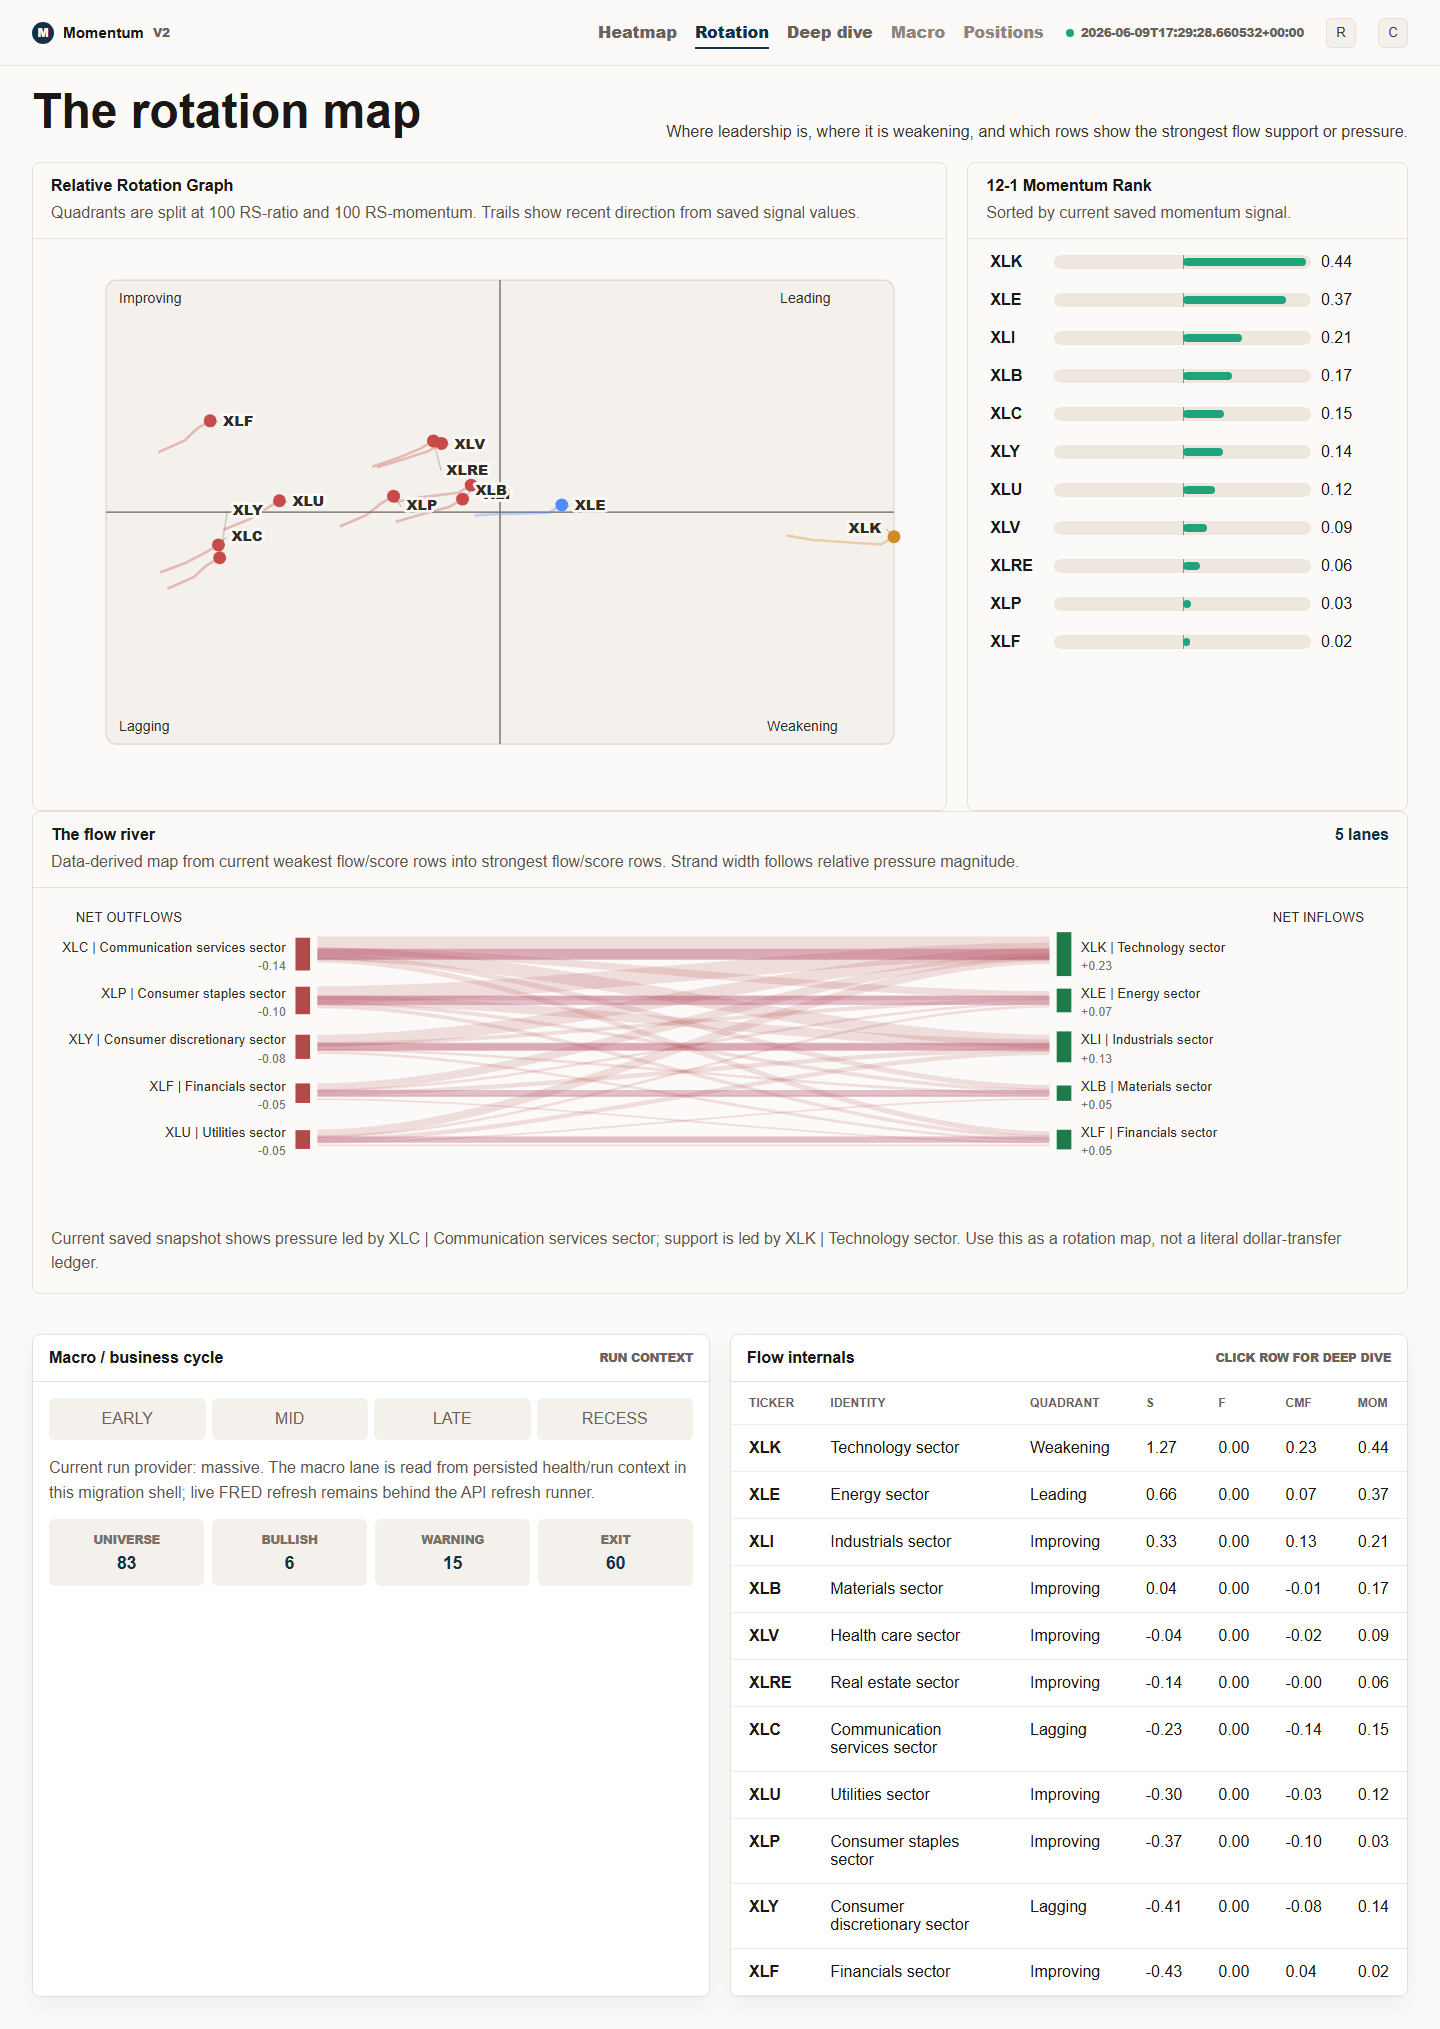
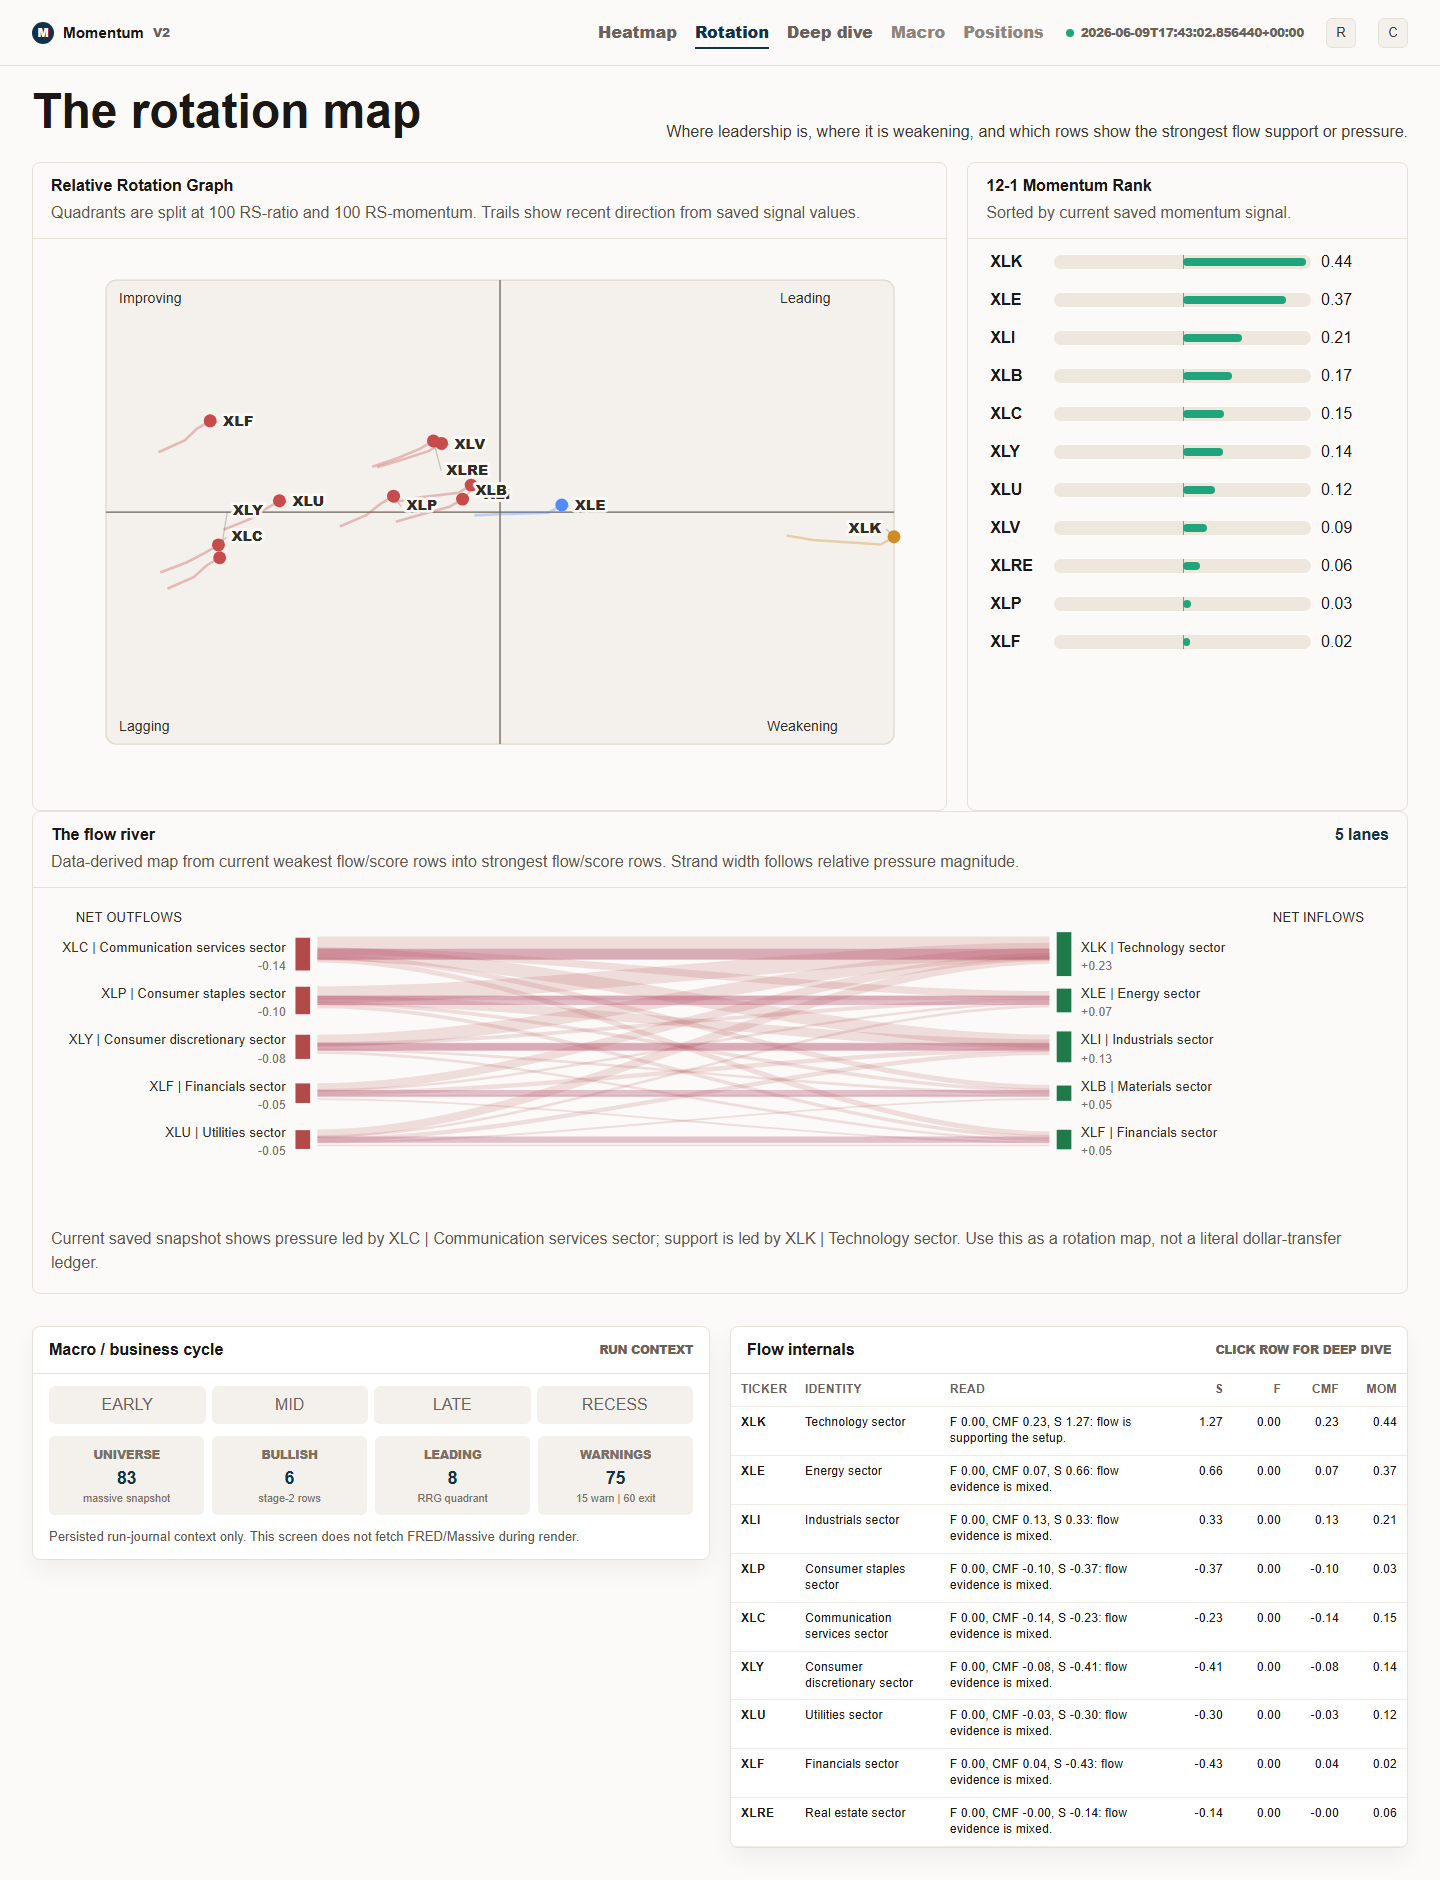
Improve B-170 rotation parity evidence

diff --git a/web/app/globals.css b/web/app/globals.css
@@ -703,18 +703,21 @@ main {
 }
 
 .c-flow-table {
-  margin-top: 20px;
+  margin-top: 16px;
 }
 
 .c-lower-grid {
   display: grid;
   grid-template-columns: minmax(0, 1fr) minmax(0, 1fr);
   gap: 20px;
-  margin-top: 20px;
+  align-items: start;
+  margin-top: 16px;
 }
 
 .c-flow-table table {
   min-width: 0;
+  table-layout: fixed;
+  width: 100%;
 }
 
 .c-flow-table th,
@@ -727,16 +730,51 @@ main {
   color: #6a625a;
 }
 
+.c-lower-grid .c-flow-table th,
+.c-lower-grid .c-flow-table td {
+  padding: 8px 10px;
+  font-size: 0.78rem;
+  line-height: 1.28;
+}
+
+.c-flow-read {
+  display: -webkit-box;
+  overflow: hidden;
+  -webkit-box-orient: vertical;
+  -webkit-line-clamp: 2;
+}
+
+.c-lower-grid .c-flow-table th:nth-child(1),
+.c-lower-grid .c-flow-table td:nth-child(1) {
+  width: 64px;
+}
+
+.c-lower-grid .c-flow-table th:nth-child(2),
+.c-lower-grid .c-flow-table td:nth-child(2) {
+  width: 24%;
+}
+
+.c-lower-grid .c-flow-table th:nth-child(3),
+.c-lower-grid .c-flow-table td:nth-child(3) {
+  width: 39%;
+}
+
+.c-lower-grid .c-flow-table th:nth-child(n+4),
+.c-lower-grid .c-flow-table td:nth-child(n+4) {
+  width: 58px;
+  text-align: right;
+}
+
 .c-cycle-tabs {
   display: grid;
   grid-template-columns: repeat(4, minmax(0, 1fr));
   gap: 6px;
-  padding: 16px;
+  padding: 12px 16px;
 }
 
 .c-cycle-tabs span,
 .c-macro-tiles div {
-  padding: 12px 10px;
+  padding: 10px 8px;
   color: #6a625a;
   text-align: center;
   background: #f4f1ec;
@@ -750,16 +788,17 @@ main {
 
 .c-macro-panel p {
   margin: 0;
-  padding: 0 16px 14px;
+  padding: 0 16px 12px;
   color: #5d554d;
-  line-height: 1.55;
+  font-size: 0.82rem;
+  line-height: 1.45;
 }
 
 .c-macro-tiles {
   display: grid;
   grid-template-columns: repeat(4, minmax(0, 1fr));
   gap: 8px;
-  padding: 0 16px 16px;
+  padding: 0 16px 12px;
 }
 
 .c-macro-tiles span {
@@ -775,6 +814,14 @@ main {
   margin-top: 5px;
   color: #12324a;
   font-size: 1.1rem;
+}
+
+.c-macro-tiles small {
+  display: block;
+  margin-top: 3px;
+  color: #7a7066;
+  font-size: 0.68rem;
+  line-height: 1.25;
 }
 
 .c-empty {

diff --git a/web/app/dashboard-screens-client.tsx b/web/app/dashboard-screens-client.tsx
@@ -124,6 +124,23 @@ function fieldNarrative(row: SnapshotRow): string {
   return `${row.display_label}: S ${fmt(row.s_score)}, F ${fmt(row.f_score)}, ${momentum}, ${flow}, RRG ${row.quadrant}.`;
 }
 
+function rowPressure(row: SnapshotRow): number {
+  return row.f_score + (row.cmf21 ?? 0) + row.s_score * 0.35;
+}
+
+function flowNarrative(row: SnapshotRow): string {
+  const cmf = row.cmf21 === null ? "CMF is unavailable" : `CMF ${fmt(row.cmf21, 2)}`;
+  const flow = `F ${fmt(row.f_score, 2)}`;
+  const score = `S ${fmt(row.s_score, 2)}`;
+  if (rowPressure(row) > 0.35) {
+    return `${flow}, ${cmf}, ${score}: flow is supporting the setup.`;
+  }
+  if (rowPressure(row) < -0.35) {
+    return `${flow}, ${cmf}, ${score}: flow is pressuring the setup.`;
+  }
+  return `${flow}, ${cmf}, ${score}: flow evidence is mixed.`;
+}
+
 function SnapshotCard({
   row,
   selected,
@@ -1358,6 +1375,12 @@ function CRotationScreen({
 }) {
   const sectors = snapshot.screens.rotation?.sectors ?? [];
   const rows = sectors.length ? sectors : snapshot.rows;
+  const sortedFlowRows = [...rows].sort((a, b) => Math.abs(rowPressure(b)) - Math.abs(rowPressure(a))).slice(0, 9);
+  const cyclePhase = String(snapshot.run?.metadata?.cycle_phase || "").toUpperCase();
+  const warningCount = snapshot.summary.state_counts.WARNING ?? 0;
+  const exitCount = snapshot.summary.state_counts.EXIT ?? 0;
+  const bullishCount = snapshot.summary.state_counts.STAGE_2_BULLISH ?? 0;
+  const leadingCount = snapshot.summary.quadrant_counts.Leading ?? 0;
   return (
     <section className="c-screen" aria-label="Display C rotation and flow">
       <header className="c-rotation-head">
@@ -1380,32 +1403,32 @@ function CRotationScreen({
           <div className="c-sec-head"><strong>Macro / business cycle</strong><span>run context</span></div>
           <div className="c-cycle-tabs">
             {["EARLY", "MID", "LATE", "RECESS"].map((phase) => (
-              <span key={phase} className={String(snapshot.run?.metadata?.cycle_phase || "").toUpperCase() === phase ? "selected" : ""}>{phase}</span>
+              <span key={phase} className={cyclePhase === phase ? "selected" : ""}>{phase}</span>
             ))}
           </div>
-          <p>Current run provider: {snapshot.run?.provider || "unknown"}. The macro lane is read from persisted health/run context in this migration shell; live FRED refresh remains behind the API refresh runner.</p>
           <div className="c-macro-tiles">
-            <div><span>Universe</span><strong>{snapshot.summary.universe_count}</strong></div>
-            <div><span>Bullish</span><strong>{snapshot.summary.state_counts.STAGE_2_BULLISH ?? 0}</strong></div>
-            <div><span>Warning</span><strong>{snapshot.summary.state_counts.WARNING ?? 0}</strong></div>
-            <div><span>Exit</span><strong>{snapshot.summary.state_counts.EXIT ?? 0}</strong></div>
+            <div><span>Universe</span><strong>{snapshot.summary.universe_count}</strong><small>{snapshot.run?.provider || "provider"} snapshot</small></div>
+            <div><span>Bullish</span><strong>{bullishCount}</strong><small>stage-2 rows</small></div>
+            <div><span>Leading</span><strong>{leadingCount}</strong><small>RRG quadrant</small></div>
+            <div><span>Warnings</span><strong>{warningCount + exitCount}</strong><small>{warningCount} warn | {exitCount} exit</small></div>
           </div>
+          <p>Persisted run-journal context only. This screen does not fetch FRED/Massive during render.</p>
         </div>
         <div className="c-flow-table">
           <div className="c-sec-head"><strong>Flow internals</strong><span>click row for deep dive</span></div>
           <table>
             <thead>
-              <tr><th>Ticker</th><th>Identity</th><th>Quadrant</th><th>S</th><th>F</th><th>CMF</th><th>Mom</th></tr>
+              <tr><th>Ticker</th><th>Identity</th><th>Read</th><th>S</th><th>F</th><th>CMF</th><th>Mom</th></tr>
             </thead>
             <tbody>
-              {rows.slice(0, 12).map((row) => (
+              {sortedFlowRows.map((row) => (
                 <tr key={row.ticker} className={row.ticker === selectedTicker ? "selected-row" : ""} onClick={() => {
                   onSelectTicker(row.ticker);
                   setActiveScreen("deepdive");
                 }}>
                   <td><strong>{row.ticker}</strong></td>
                   <td>{row.identity}</td>
-                  <td>{row.quadrant}</td>
+                  <td><span className="c-flow-read">{flowNarrative(row)}</span></td>
                   <td>{fmt(row.s_score)}</td>
                   <td>{fmt(row.f_score)}</td>
                   <td>{fmt(row.cmf21, 2)}</td>

diff --git a/docs/BACKLOG.md b/docs/BACKLOG.md
@@ -16,7 +16,7 @@ Status legend:
 **Behavior:** adds a pure JSON status contract for dashboard health lanes and an optional FastAPI app factory with `/api/v1/health`, `/api/v1/status`, `GET /api/v1/data-health`, `GET /api/v1/provider-health`, `GET /api/v1/dashboard-snapshot`, `GET /api/v1/backtest-artifacts`, `GET /api/v1/ticker-chart`, `POST /api/v1/portfolio/analyze`, `GET /api/v1/portfolios`, `POST /api/v1/portfolios`, `DELETE /api/v1/portfolios?name=...`, `POST /api/v1/refresh`, `GET /api/v1/refresh/{job_id}`, and `GET /api/v1/refresh/{job_id}/events`. The default API status provider reads persisted state-machine storage, run-journal metadata, and Massive provider-snapshot coverage without importing Streamlit, fetching providers, recomputing indicators, or mutating live scoring state. The data/provider-health API additionally exposes provider-flow readiness and provider-flow cache coverage from persisted/configured state only, so future clients can show provider health without live provider calls. The backtest artifact API reports existing manual report/equity/state artifact presence, timestamps, hashes, metadata verification state, report text, and equity rows without running backtests, calibration, provider fetches, or research jobs; the Next shell consumes it in a collapsed Backtest Lab panel with artifact statuses, report preview, and an API-row equity preview. The ticker chart API reads cached OHLCV only, computes weekly close, 30-week moving average, CMF(21), OBV, OBV slope, benchmark-relative RS ratio, 12-week momentum, and 52-week momentum rows, and the React C2 deep dive fetches the selected ticker chart asynchronously while falling back to saved gate evidence if cached chart data is unavailable. The portfolio analysis API accepts a single ticker, JSON holdings, CSV text, or base64 CSV/XLSX content and maps holdings onto the latest persisted dashboard snapshot without provider fetches, scoring recompute, broker calls, portfolio persistence, or state writes; saved-portfolio routes explicitly reuse `data/saved_inputs.json` for named portfolio list/save/delete. The Next shell now includes an API-backed portfolio analyzer for ticker, pasted CSV, and uploaded CSV/XLS/XLSX inputs, with exposure summaries, missing ticker diagnostics, click-through rows into the dashboard focus, and explicit save/load/delete controls for named portfolios. Refresh jobs and progress events are persisted in local SQLite so a future React/Next.js frontend can create refresh requests and reconnect to progress state while the current dashboard keeps running. The refresh endpoint is queue-only by default; when a caller explicitly sends `run_now: true`, `src/api_refresh_runner.py` executes the existing headless Massive/FRED/dashboard refresh sequence and records phase progress. The first Next.js shell under `web/` consumes `/api/v1/health`, `/api/v1/data-health`, and `/api/v1/dashboard-snapshot`, renders persisted/provider health lanes plus A/B/C overview, deep-dive, and rotation sections from the latest run-journal snapshot, keeps provider calls behind the API, and now has native React screen selection, sortable overview lists, ticker focus selection, click-through cards/rows, rotation quadrant filtering, API-fed SVG primitives for pillar-stack rows, ticker waterfall, RRG, momentum bars, a relative-strength/momentum deep-dive panel, and a data-derived flow river, a light `?presentation=c` Display C candidate layout, plus a repeatable Playwright screenshot QA harness against the C1/C2/C3 handoff PNGs.
 **Activation:** install `requirements.txt`, build the Next app with `npm --prefix web run build`, then optionally install the candidate `sector-api.service` and `sector-next.service` templates; no Pi service switch is made by this ticket.
 **Migration plan:** keep Streamlit as the production frontend until API-backed React screens reach parity. The candidate API/Next services and Cloudflare route plan are documented for a separate `next-sentimentdashboard.ahaddashboards.uk` hostname, while `sentimentdashboard.ahaddashboards.uk` stays routed to Streamlit. Streamlit route remains production until feature parity, data parity, visual parity, and rollback gates are accepted.
-**Evidence:** Next handoff browser QA screenshots and similarity report are stored in `docs/browser-qa/next-handoff/latest`; the latest `?presentation=c` run has required text/nonblank passes for C1/C2/C3 with current similarity 0.7763 for overview, 0.8386 for deep dive, and 0.8496 for rotation. The overview now uses cumulative stacked pillar bars and a data-backed saved-portfolio positions rail instead of handoff fixture holdings, with the QA helper preserving the current real row universe while trimming duplicate transport payload sections. The deep dive now has a C2-style waterfall, weighted pillar-detail cards with evidence tags, run-journal-backed gate/evidence panels, and collapsed advanced evidence so the first-pass visual structure remains closer to the handoff while retaining extra real-data panels on demand.
+**Evidence:** Next handoff browser QA screenshots and similarity report are stored in `docs/browser-qa/next-handoff/latest`; the latest `?presentation=c` run has required text/nonblank passes for C1/C2/C3 with current similarity 0.7763 for overview, 0.8386 for deep dive, and 0.8524 for rotation. The overview now uses cumulative stacked pillar bars and a data-backed saved-portfolio positions rail instead of handoff fixture holdings, with the QA helper preserving the current real row universe while trimming duplicate transport payload sections. The deep dive now has a C2-style waterfall, weighted pillar-detail cards with evidence tags, run-journal-backed gate/evidence panels, and collapsed advanced evidence so the first-pass visual structure remains closer to the handoff while retaining extra real-data panels on demand. The rotation screen now keeps the flow-river/lower-detail composition closer to the handoff height while using live snapshot rows for flow-pressure sorting and row-specific flow explanations.
 **Residual risk:** this is a foundation slice only. The API runner can execute the real headless refresh when explicitly requested, and the initial Next shell now has lockfile/audit/build evidence plus journal-backed A/B/C screen foundations, native React interactions, API-fed chart primitives, async cached ticker price/flow/relative-strength/momentum chart data, screenshot QA evidence, read-only portfolio analysis API/UI coverage, explicit saved-portfolio API/UI persistence coverage, read-only backtest artifact API/UI coverage, and candidate service/route templates. The candidate services are not yet installed as the live production route, and there is not yet handoff-pixel A/B/C React parity or an accepted Streamlit retirement decision.
 
 ### B-001 · HTML render fix for action cards (BLUF) - IMPLEMENTED

diff --git a/docs/superpowers/plans/2026-06-08-b170-production-dashboard-migration.md b/docs/superpowers/plans/2026-06-08-b170-production-dashboard-migration.md
@@ -79,7 +79,7 @@ Start by extracting pure response contracts and optional API boundaries. Do not 
 - [x] Add Playwright screenshot QA against the design handoff PNG/HTML references.
   - [x] `scripts/capture_next_handoff_qa.py` captures Overview, Deep Dive, and Rotation against C1/C2/C3 references.
   - [x] `scripts/serve_next_qa_api.py` provides a QA-only read-only API fallback when FastAPI is not installed locally.
-  - [x] Latest evidence targets `http://127.0.0.1:3100/?presentation=c`; required text/nonblank checks pass for C1/C2/C3 with current similarity 0.7763 overview, 0.8386 deep dive, and 0.8496 rotation while remaining below a pixel-parity release gate.
+  - [x] Latest evidence targets `http://127.0.0.1:3100/?presentation=c`; required text/nonblank checks pass for C1/C2/C3 with current similarity 0.7763 overview, 0.8386 deep dive, and 0.8524 rotation while remaining below a pixel-parity release gate.
   - [x] The screenshot QA helper now hides the Next development overlay before capture and compacts duplicate snapshot sections below the local transport limit while preserving the current real row universe.
   - [ ] Raise visual similarity through layout/pixel-parity tickets before using the similarity score as a release gate.
 - [x] Add Pi systemd/API deployment docs and Cloudflare route plan.